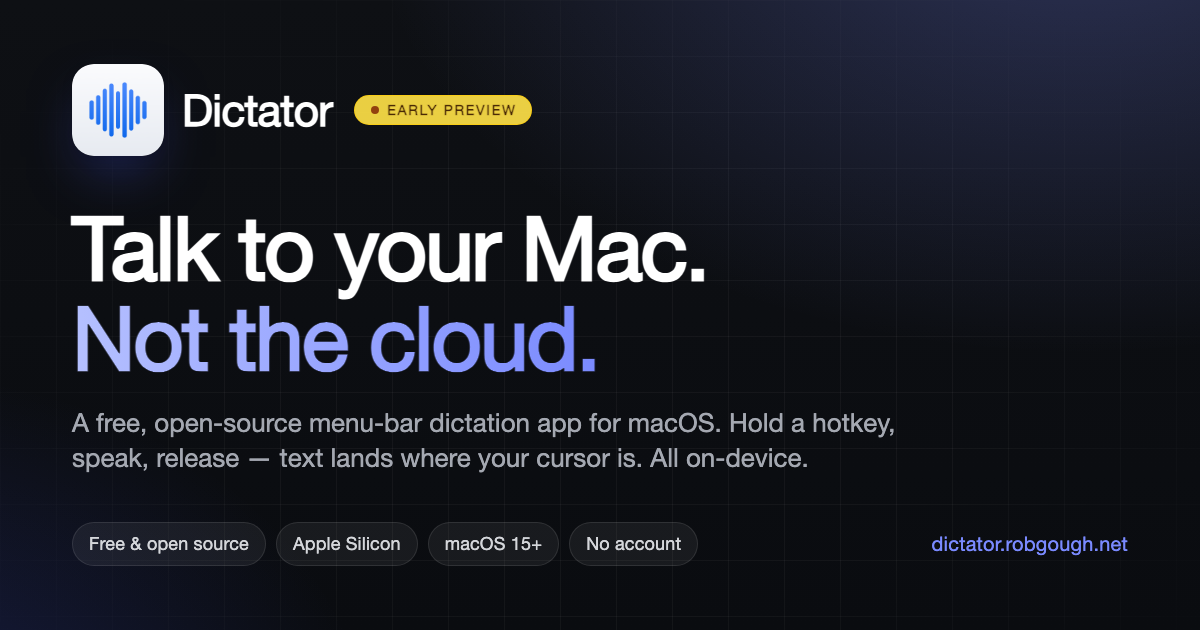
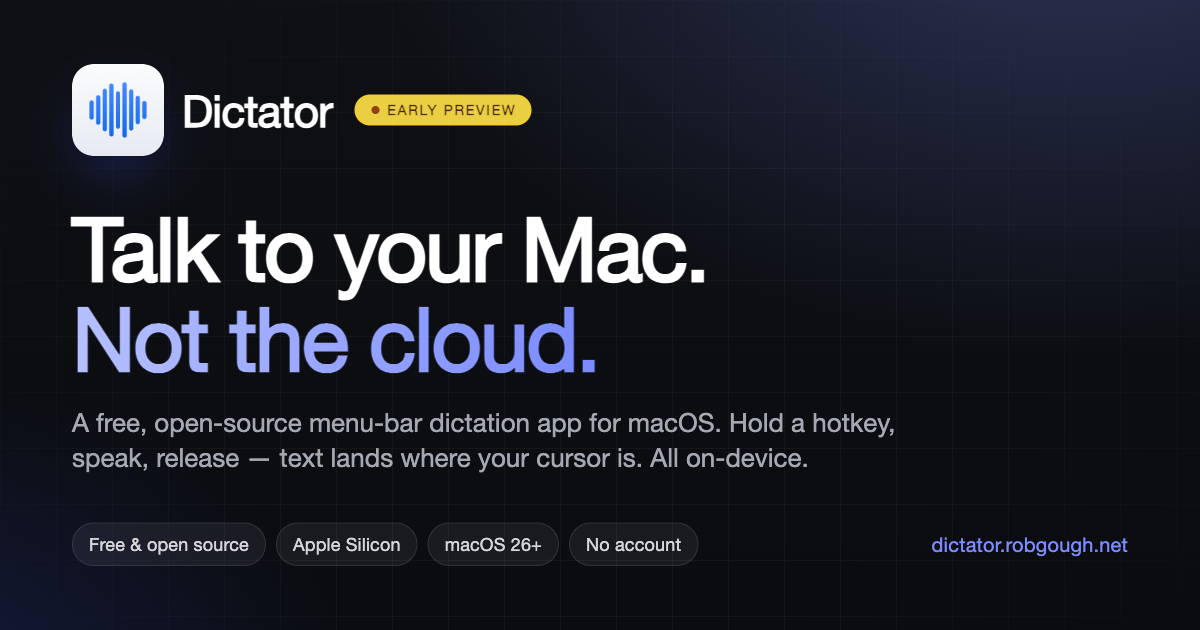
Update OG card and privacy alt text to macOS 26+

diff --git a/docs/privacy.html b/docs/privacy.html
@@ -22,7 +22,7 @@
     <meta property="og:image:type" content="image/png">
     <meta property="og:image:width" content="1200">
     <meta property="og:image:height" content="630">
-    <meta property="og:image:alt" content="Dictator — local-first dictation for macOS. Free, open source, runs on Apple Silicon, macOS 15+.">
+    <meta property="og:image:alt" content="Dictator — local-first dictation for macOS. Free, open source, runs on Apple Silicon, macOS 26+.">
     <meta property="og:locale" content="en_GB">
 
     <!-- Twitter / X -->
@@ -30,7 +30,7 @@
     <meta name="twitter:title" content="Dictator — Privacy">
     <meta name="twitter:description" content="How Dictator handles your data. Short version: it doesn't. Audio, transcripts, and models all stay on your Mac.">
     <meta name="twitter:image" content="https://dictator.robgough.net/media/og-card.png">
-    <meta name="twitter:image:alt" content="Dictator — local-first dictation for macOS. Free, open source, runs on Apple Silicon, macOS 15+.">
+    <meta name="twitter:image:alt" content="Dictator — local-first dictation for macOS. Free, open source, runs on Apple Silicon, macOS 26+.">
 
     <style>
         :root {

diff --git a/docs/media/og-card.html b/docs/media/og-card.html
@@ -156,7 +156,7 @@
             <div class="chips">
                 <span class="chip">Free &amp; open source</span>
                 <span class="chip">Apple Silicon</span>
-                <span class="chip">macOS 15+</span>
+                <span class="chip">macOS 26+</span>
                 <span class="chip">No account</span>
             </div>
             <span class="url">dictator.robgough.net</span>
